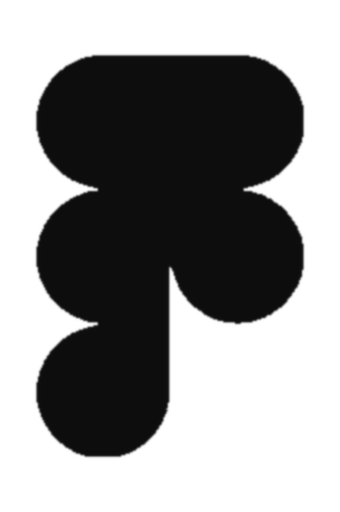
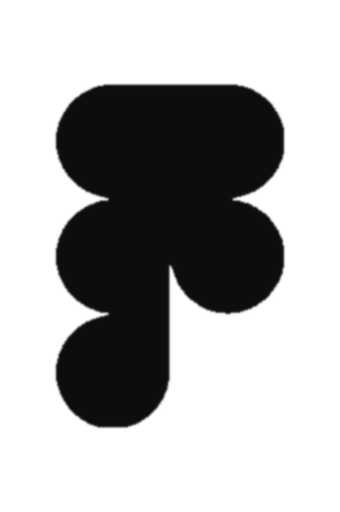
fix: reducir tamaño del icono de Figma, texto negro en boton de eje, y nuevo copy de Contenido/Mundo3D/Producto
- Icono de Figma: se aumento el padding proporcional del render para
  que el trazo visible ocupe una fraccion similar a los demas iconos
  del dock (se veia un poco mas grande que el resto).
- Boton toggle Definicion/Contenido de cada eje: el texto por defecto
  era azul (--pcd-cobalt); ahora es negro (--pcd-ink), igual en los
  tres ejes ya que todos comparten el mismo selector.
- Nuevo copy (ES/EN) para el parrafo de Contenido en los 3 ejes
  (Contenido, Mundo 3D, Producto), reemplazando el texto anterior por
  el que redacto el usuario; Producto ahora menciona JavaScript en
  vez de Java.

diff --git a/src/i18n/translations.ts b/src/i18n/translations.ts
@@ -51,7 +51,7 @@ const translations = {
       vs13accent: "construirlo.",
       vs13body: "Las marcas y las comunidades digitales no aparecen solas. Aprendemos a crear contenidos, identidades y experiencias para el ecosistema digital actual.",
       contenidoTitle: "¿Qué aprenderás?",
-      contenidoBody: "En el mundo del contenido aprenderás **fotografía** y **producción audiovisual** usando cámaras en nuestro estudio. Crearás un **guion** y aprenderás a **contar historias** desde un lente, además de **contenido ligero para redes sociales** y los trucos de **edición** detrás de las piezas digitales más llamativas. También aprenderás **marketing**, **publicidad** y **composición**, y sabrás leer una **métrica** y gestionar una **pauta**. Te sumergirás en la **IA generativa** para crear **imágenes y video profesionales**.",
+      contenidoBody: "En el mundo del contenido aprenderás **fotografía** y **producción audiovisual** con cámaras y equipos profesionales en nuestro estudio. Crearás **guiones**, aprenderás a **contar historias** desde un lente y producirás **contenido atractivo para redes sociales**, mientras descubres los secretos de la **edición** y la **composición** detrás de las piezas digitales más llamativas. También explorarás el **marketing**, la **publicidad**, la lectura de **métricas** y la gestión de **pautas digitales**. Además, te sumergirás en la **IA generativa** para crear **imágenes y videos profesionales** y llevar tus ideas más lejos.",
       dockLabel: "Herramientas que usarás",
     },
     axis02: {
@@ -59,7 +59,7 @@ const translations = {
       toggleToContenido: "Ver contenido",
       toggleToDefinicion: "Ver definición",
       contenidoTitle: "¿Qué aprenderás?",
-      contenidoBody: "Te sumergirás en el mundo **tridimensional**: aprenderás a **modelar**, **esculpir**, **renderizar** y **animar** productos 3D. Crearás **videojuegos** completos, con sus **assets** y todo lo que eso implica. Además, explorarás la **realidad virtual** y la **realidad aumentada**.",
+      contenidoBody: "Te sumergirás en el mundo **tridimensional**, donde aprenderás a **modelar**, **esculpir**, **renderizar** y **animar** productos y escenarios 3D. Crearás **videojuegos completos**, desde sus **assets** hasta su desarrollo y puesta en escena. Además, explorarás las posibilidades de la **realidad virtual** y la **realidad aumentada** para crear **experiencias inmersivas e interactivas**.",
       dockLabel: "Herramientas que usarás",
       wordLine1: "mundo",
       wordLine2: "3d",
@@ -80,7 +80,7 @@ const translations = {
       toggleToContenido: "Ver contenido",
       toggleToDefinicion: "Ver definición",
       contenidoTitle: "¿Qué aprenderás?",
-      contenidoBody: "Aprenderás a crear **productos digitales** como aplicaciones y páginas web. Entenderás las bases de la **programación frontend** con lenguajes como **Java**, y luego complementarás con herramientas de IA como **Claude Code**. Aprenderás a usar **Figma** y a construir **prototipos de alta fidelidad** y usables, que combinen funcionalidad, estética y experiencia.",
+      contenidoBody: "Aprenderás a crear **productos digitales** como aplicaciones y páginas web, entendiendo las bases de la **programación frontend** con lenguajes como **JavaScript** y complementándolas con herramientas de IA como **Claude Code**. También aprenderás a usar **Figma** para diseñar **prototipos de alta fidelidad** que combinen funcionalidad, estética y una **experiencia de usuario intuitiva**.",
       dockLabel: "Herramientas que usarás",
       wordLine1: "prod-",
       wordLine2: "ucto",
@@ -296,7 +296,7 @@ const translations = {
       vs13accent: "building it.",
       vs13body: "Brands and digital communities do not appear on their own. We learn to create content, identities and experiences for the digital ecosystem of today.",
       contenidoTitle: "What will you learn?",
-      contenidoBody: "In the world of content you'll learn **photography** and **audiovisual production** using cameras in our studio. You'll write a **script** and learn to **tell stories** through a lens, along with **light content for social media** and the **editing** tricks behind the most eye-catching digital pieces. You'll also learn **marketing**, **advertising** and **composition**, and how to read a **metric** and manage an **ad campaign**. You'll dive into **generative AI** to create professional-grade **images and video**.",
+      contenidoBody: "In the world of content, you'll learn **photography** and **audiovisual production** with professional cameras and equipment in our studio. You'll write **scripts**, learn to **tell stories** through a lens, and produce **engaging content for social media**, while discovering the secrets of **editing** and **composition** behind the most eye-catching digital pieces. You'll also explore **marketing**, **advertising**, reading **metrics**, and managing **digital ad campaigns**. Plus, you'll dive into **generative AI** to create **professional images and videos** and take your ideas further.",
       dockLabel: "Tools you will use",
     },
     axis02: {
@@ -304,7 +304,7 @@ const translations = {
       toggleToContenido: "View content",
       toggleToDefinicion: "View definition",
       contenidoTitle: "What will you learn?",
-      contenidoBody: "You'll dive into the **three-dimensional** world: you'll learn to **model**, **sculpt**, **render** and **animate** 3D products. You'll build full **video games**, with their **assets** and everything that involves. You'll also explore **virtual reality** and **augmented reality**.",
+      contenidoBody: "You'll dive into the **three-dimensional** world, where you'll learn to **model**, **sculpt**, **render** and **animate** 3D products and environments. You'll build **full video games**, from their **assets** to their development and staging. You'll also explore the possibilities of **virtual reality** and **augmented reality** to create **immersive, interactive experiences**.",
       dockLabel: "Tools you will use",
       wordLine1: "3d",
       wordLine2: "world",
@@ -325,7 +325,7 @@ const translations = {
       toggleToContenido: "View content",
       toggleToDefinicion: "View definition",
       contenidoTitle: "What will you learn?",
-      contenidoBody: "You'll create **digital products** like apps and websites. You'll learn the basics of **frontend programming** with languages like **Java**, then complement it with AI tools like **Claude Code**. You'll learn to use **Figma** and build **high-fidelity**, usable **prototypes** that combine functionality, aesthetics and experience.",
+      contenidoBody: "You'll learn to build **digital products** like apps and websites, understanding the basics of **frontend programming** with languages like **JavaScript** and complementing them with AI tools like **Claude Code**. You'll also learn to use **Figma** to design **high-fidelity prototypes** that combine functionality, aesthetics, and an **intuitive user experience**.",
       dockLabel: "Tools you will use",
       wordLine1: "prod-",
       wordLine2: "uct",

diff --git a/src/styles/programa.css b/src/styles/programa.css
@@ -714,7 +714,7 @@
   align-items: center;
   gap: 8px;
   background: #ffffff;
-  color: var(--pcd-cobalt);
+  color: var(--pcd-ink);
   border: 0;
   font-family: var(--pcd-mono);
   font-weight: 700;
